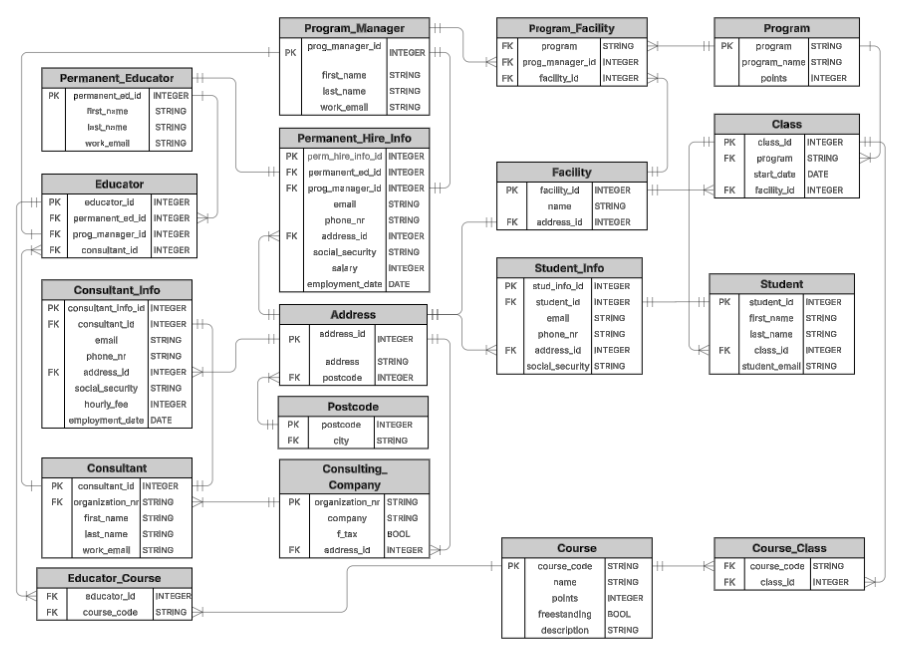
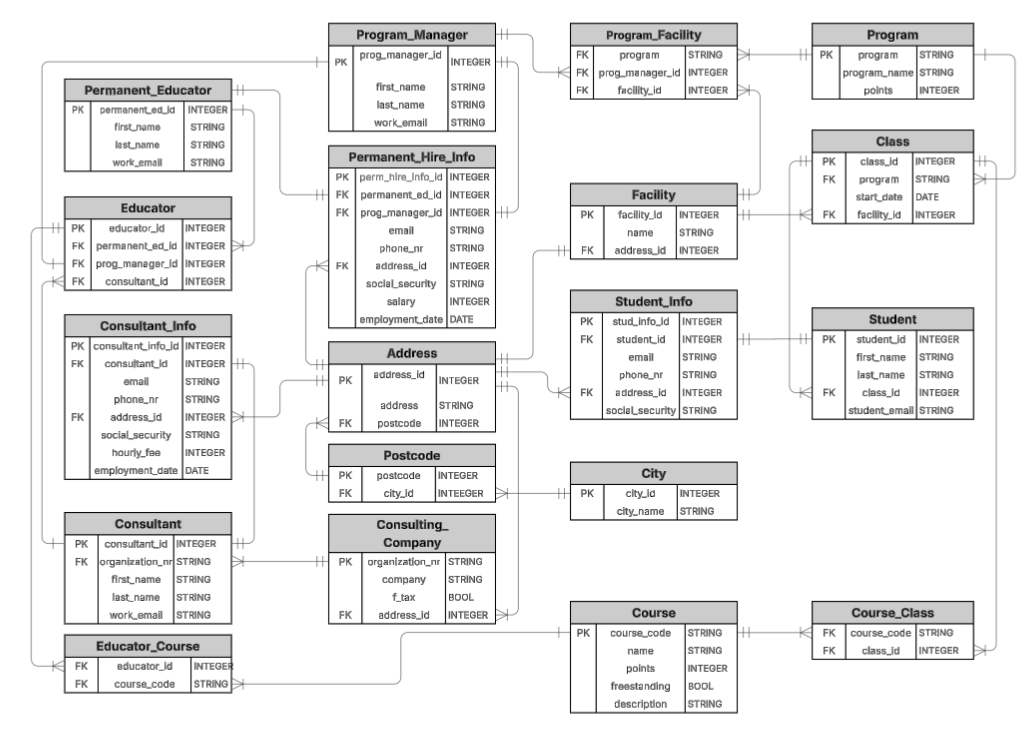
Uppdaterad version fysisk och logisk modell

Changed region(s): [[0.0, 0.0, 0.9912, 0.9892]]

diff --git a/modeller/konseptuell_modell.md b/modeller/konseptuell_modell.md
@@ -1,6 +1,6 @@
 ## Konseptuell modell 1:
 
-<img src="bilder/konseptuell_modell_YrkesCo_1.png" alt="Beskrivning" width="500">
+<img src="bilder/konseptuell_modell_YrkesCo_2.png" alt="Beskrivning" width="500">
 
 ## Konseptuell modell 2:
 

diff --git a/modeller/logisk_modell.md b/modeller/logisk_modell.md
@@ -11,6 +11,6 @@
 <img src="bilder/logisk_modell_YrkesCo_3.1.png" alt="Beskrivning" width="600">
 
 
-## Logisk modell 3.1:
+## Logisk modell 4:
 
 <img src="bilder/logisk_modell_YrkesCo_4.png" alt="Beskrivning" width="600">

diff --git a/modeller/fysisk_modell.md b/modeller/fysisk_modell.md
@@ -8,3 +8,6 @@
 <img src="bilder/fysisk_modell_YrkesCo_2.png" alt="Beskrivning" width="600">
 
 
+## Fysisk modell 3:
+
+<img src="bilder/fysisk_modell_YrkesCo_3.png" alt="Beskrivning" width="600">

diff --git a/modeller/relationship_statements.md b/modeller/relationship_statements.md
@@ -1,4 +1,4 @@
-# Relatione (relationship statements)
+# Relationer (relationship statements)
 
 Relationer mellan entiteter i den konseptuella modellen:
 
